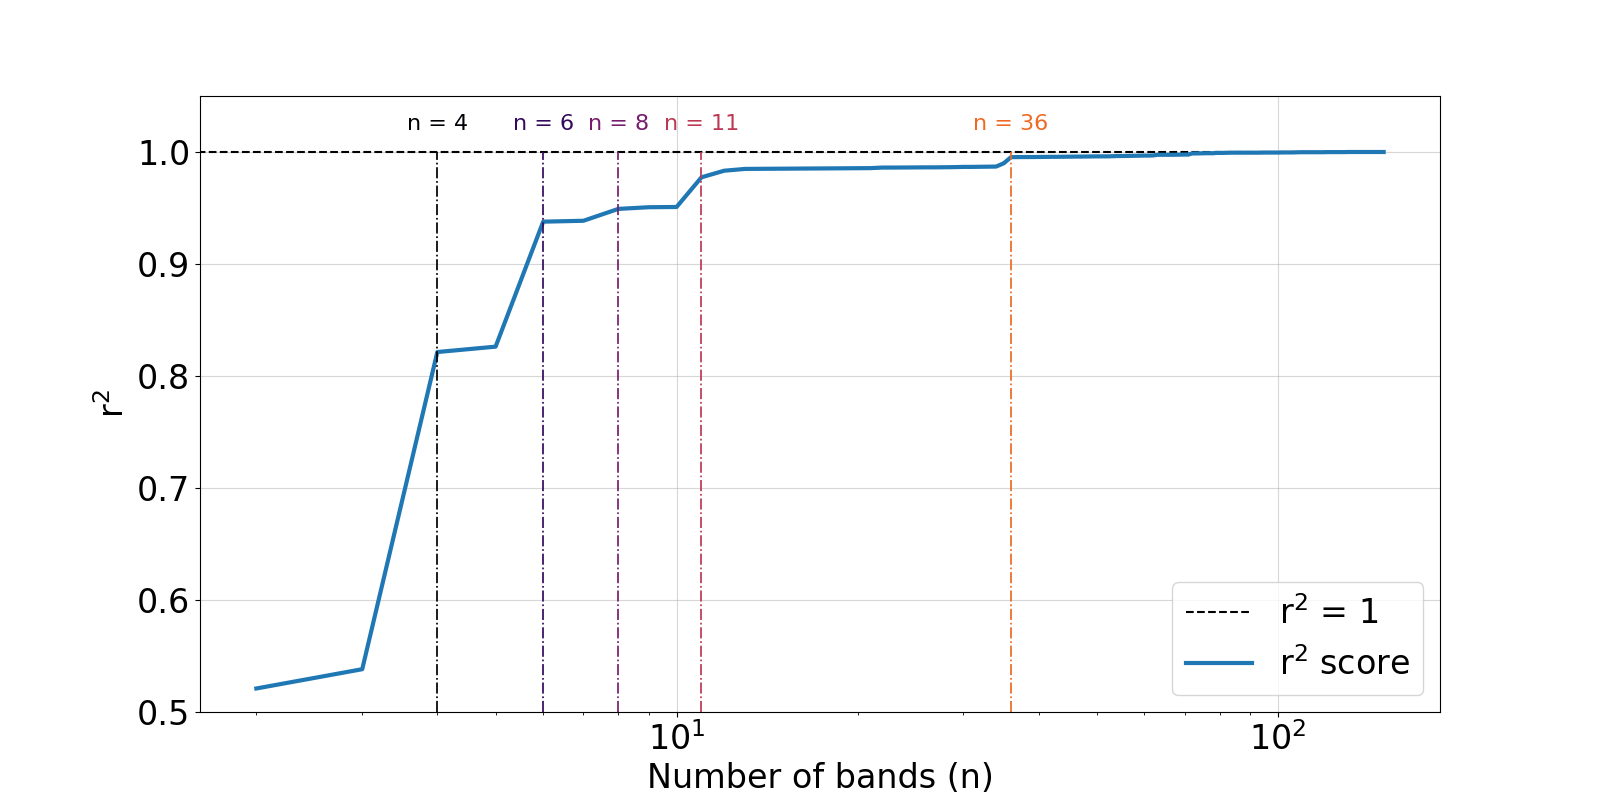
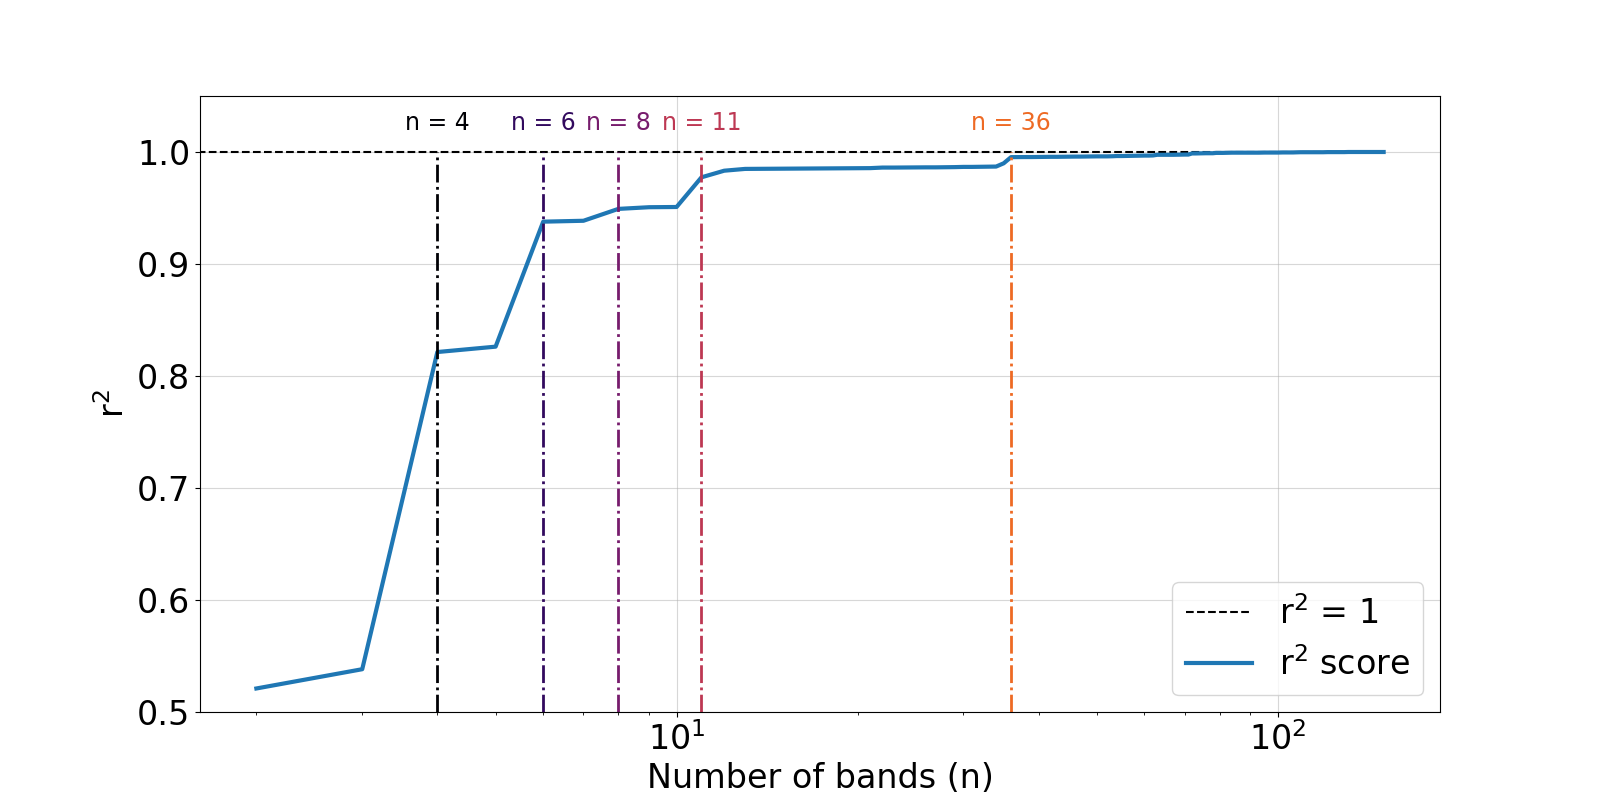
updated plot functions

diff --git a/functions.py b/functions.py
@@ -219,10 +219,10 @@ def plotDTB_2to6_bands(f, ps, name):
     plt.figure(figsize=(18, 20))
     for num_bins in bin_sizes:
 
-        title_fonts=20
+        title_fonts=24
         bin_edge_fonts=16
         other_fonts=24
-        line_width = 3
+        line_width = 4
 
         # compute bins with decision tree
         bin_dict, clf = decisionTreeBinning(num_bins, f, ps)
@@ -268,7 +268,7 @@ def plotDTB_2to6_bands(f, ps, name):
         plt.yticks(fontsize= other_fonts)
 
     # xlabel
-    plt.xlabel("Frequency", fontsize=20)
+    plt.xlabel("Frequency", fontsize=other_fonts)
 
     fig = plt.gcf()
     fig.tight_layout(pad=3.0)
@@ -327,8 +327,8 @@ def plotR2vsNumBands(f, ps, name):
     viridis = mpl.cm.get_cmap('inferno', 128)
 
     for i in range(len(steps)):
-        plt.semilogx([steps[i], steps[i]], [0.5, 1], linestyle='-.', color=viridis(i/(len(steps)+1)), linewidth=1.25)
-        plt.text(steps[i], 1.02, "n = " + str(steps[i]), color=viridis(i/(len(steps)+1)), fontsize=16, horizontalalignment='center')
+        plt.semilogx([steps[i], steps[i]], [0.5, 1], linestyle='-.', color=viridis(i/(len(steps)+1)), linewidth=2)
+        plt.text(steps[i], 1.02, "n = " + str(steps[i]), color=viridis(i/(len(steps)+1)), fontsize=17, horizontalalignment='center')
 
     # plt.plot(ar2_array, linewidth=2)
     plt.xlabel('Number of bands (n)')
@@ -517,10 +517,10 @@ def getOptimalBands(f, ps):
 def plotOptimalBands(f, ps, name):
 
     # define plotting parameters
-    title_fonts=24
+    title_fonts=28
     bin_edge_fonts=18
     other_fonts=24
-    line_width = 3
+    line_width = 4
 
     # compute optimal bands
     optimal_num_bands, optimal_band_dict, clf, min_QS = getOptimalBands(f, ps)
@@ -642,7 +642,7 @@ def getExperimentalData():
 def plotExperimentalData(O, f, p):
 
     plt.figure(figsize=(24, 10))
-    font_size = 24
+    font_size = 28
     lw = 3
     plt.rcParams.update({'font.size': font_size})
 
@@ -692,10 +692,10 @@ def plotExperimentalData(O, f, p):
 def plotOptimalBands_withCS1(f, ps, name):
 
     # define plotting parameters
-    title_fonts=24
+    title_fonts=28
     bin_edge_fonts=18
     other_fonts=24
-    line_width = 3
+    line_width = 4
 
     # compute optimal bands
     optimal_num_bands, optimal_band_dict, clf, min_QS = getOptimalBands(f, ps)
